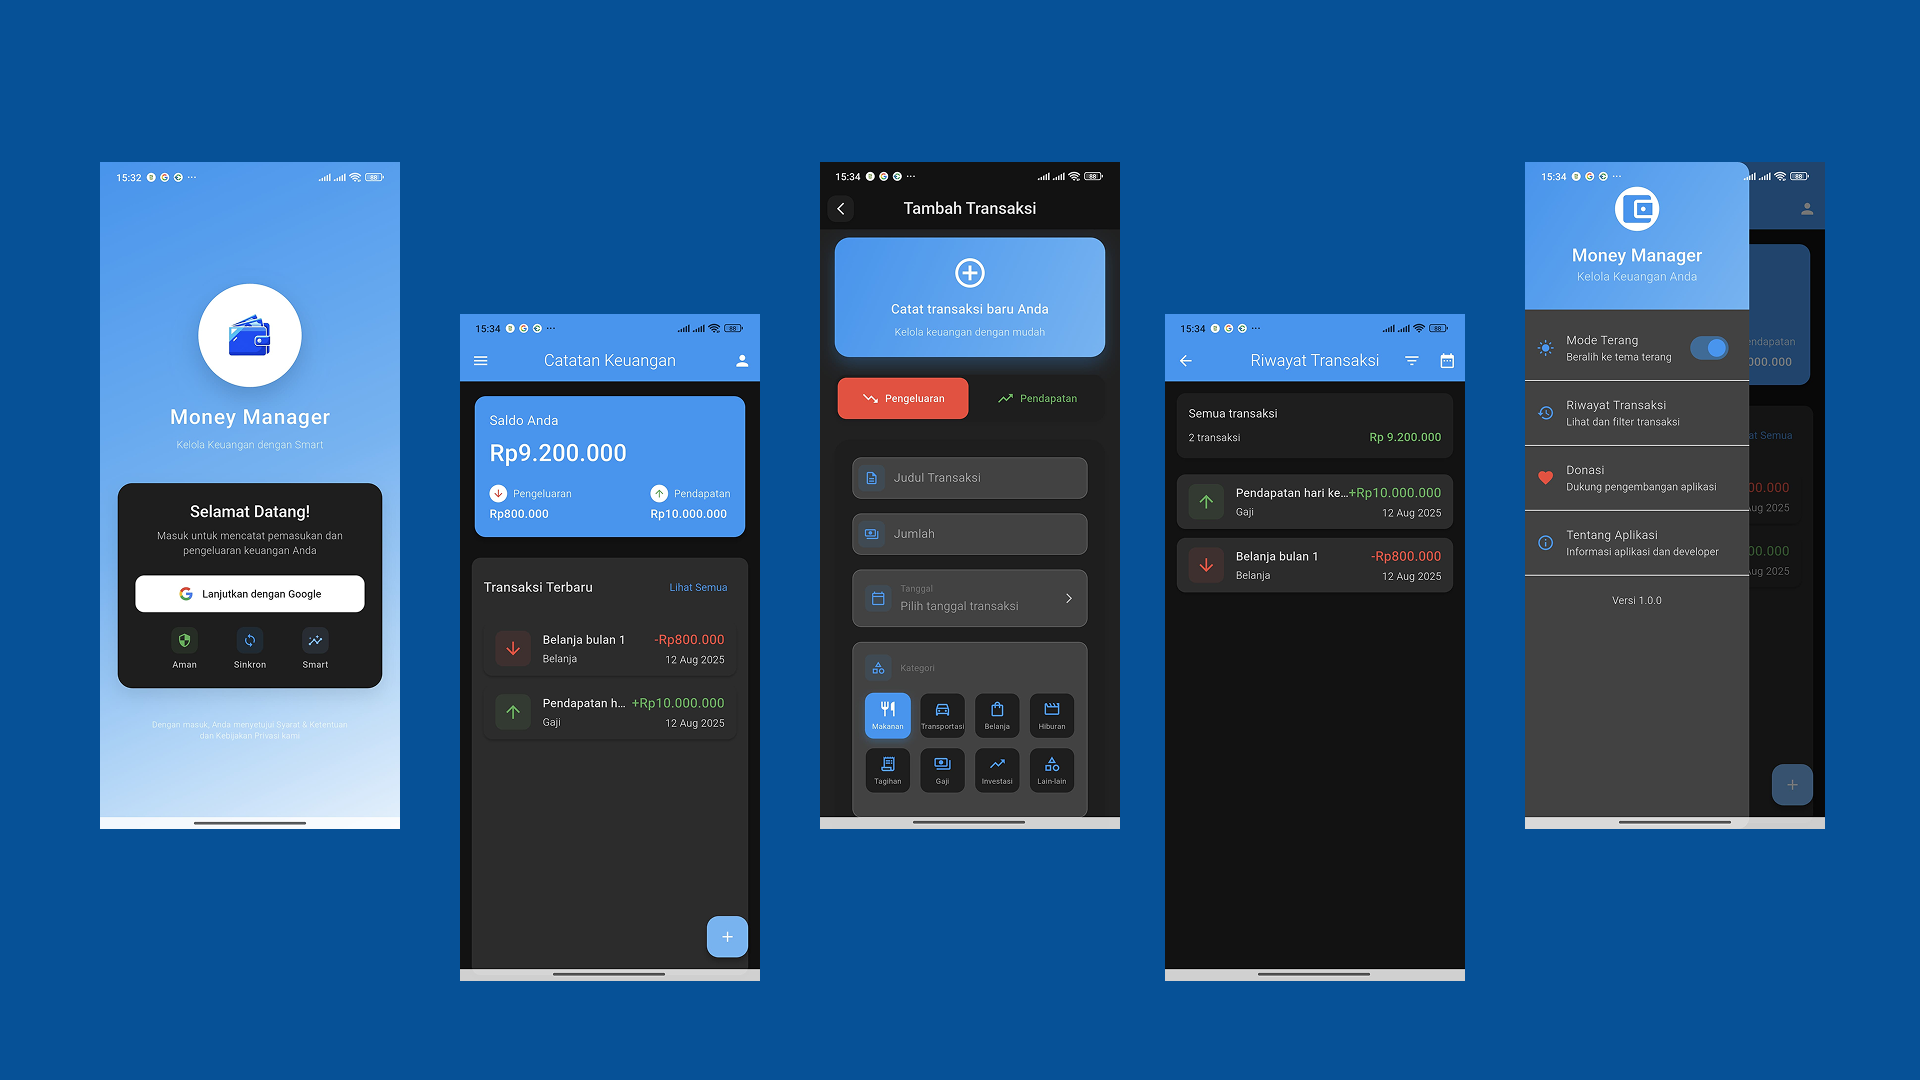
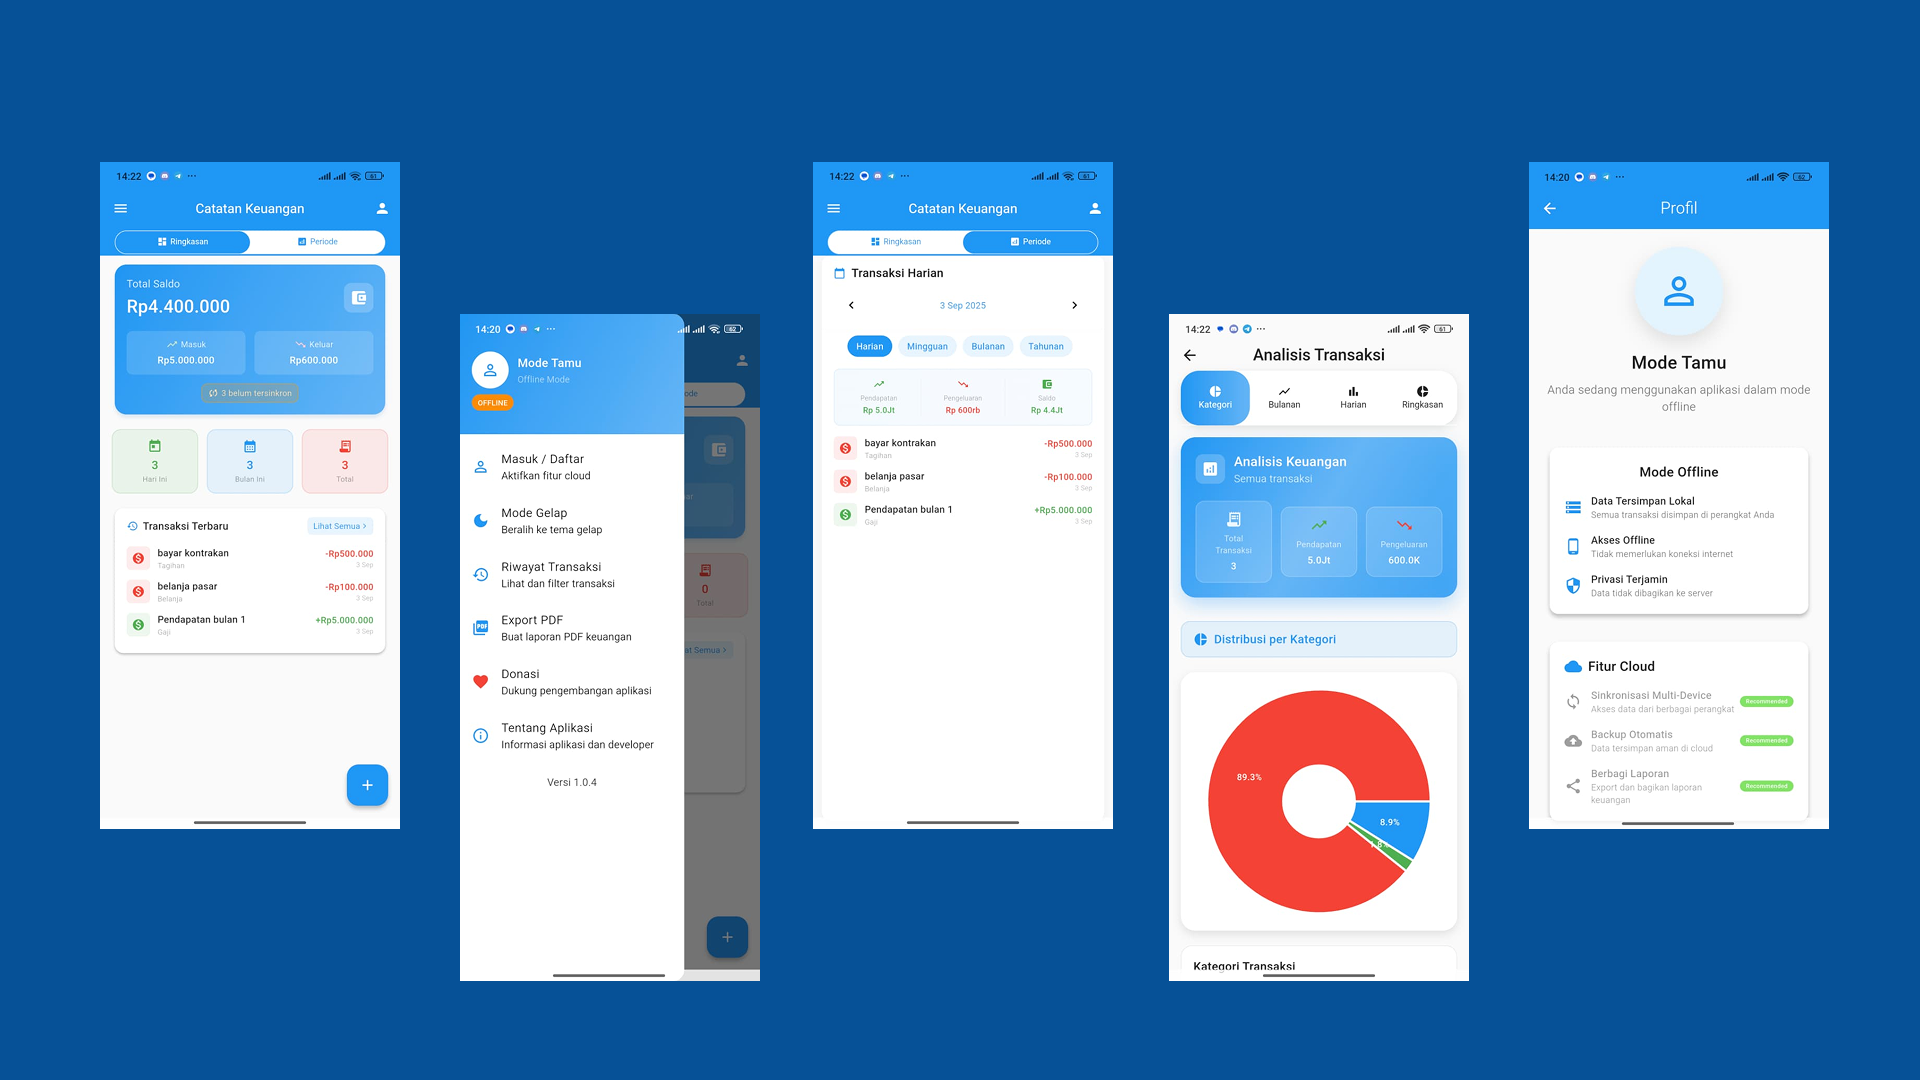
Update project URLs and add app-ads.txt file

diff --git a/lib/pages/projects_page.dart b/lib/pages/projects_page.dart
@@ -74,7 +74,7 @@ class ProjectsPage extends StatelessWidget {
                   detailedDescription: 'Aplikasi pemutar musik mobile sederhana dengan fitur streaming dari YouTube, download untuk offline playback, dan manajemen playlist yang intuitif. Menggunakan youtube_explode_dart untuk ekstraksi audio dan just_audio untuk playback.',
                   technologies: ['Flutter', 'youtube_explode_dart', 'just_audio'],
                   imageUrl: 'assets/images/proyek4.png',
-                  projectUrl: 'https://drive.google.com/file/d/1y_uLyUzqIWHZwFcY4Fk6I1Y4GM_48_zl/view?usp=sharing',
+                  projectUrl: 'https://drive.google.com/file/d/1fyV9yz3MleWQi8b920K5rTGmUGUlkwK8/view?usp=sharing',
                   isAssetImage: true,
                   linkType: 'Download App',
                 ),
@@ -85,7 +85,7 @@ class ProjectsPage extends StatelessWidget {
                   detailedDescription: 'Aplikasi ini memungkinkan pengguna untuk mencatat pengeluaran, mengatur anggaran, dan menganalisis kebiasaan belanja mereka. Dengan antarmuka yang intuitif dan fitur yang mudah digunakan.',
                   technologies: ['Flutter', 'Provider', 'Supabase'],
                   imageUrl: 'assets/images/proyek5.png',
-                  projectUrl: 'https://drive.google.com/file/d/1mJG6au9AIqOMwHtS21CEZHGiu5Pkt51X/view?usp=sharing',
+                  projectUrl: 'https://play.google.com/store/apps/details?id=com.erelbe.money_management&pcampaignid=web_share',
                   isAssetImage: true,
                   linkType: 'Download App',
                 ),
